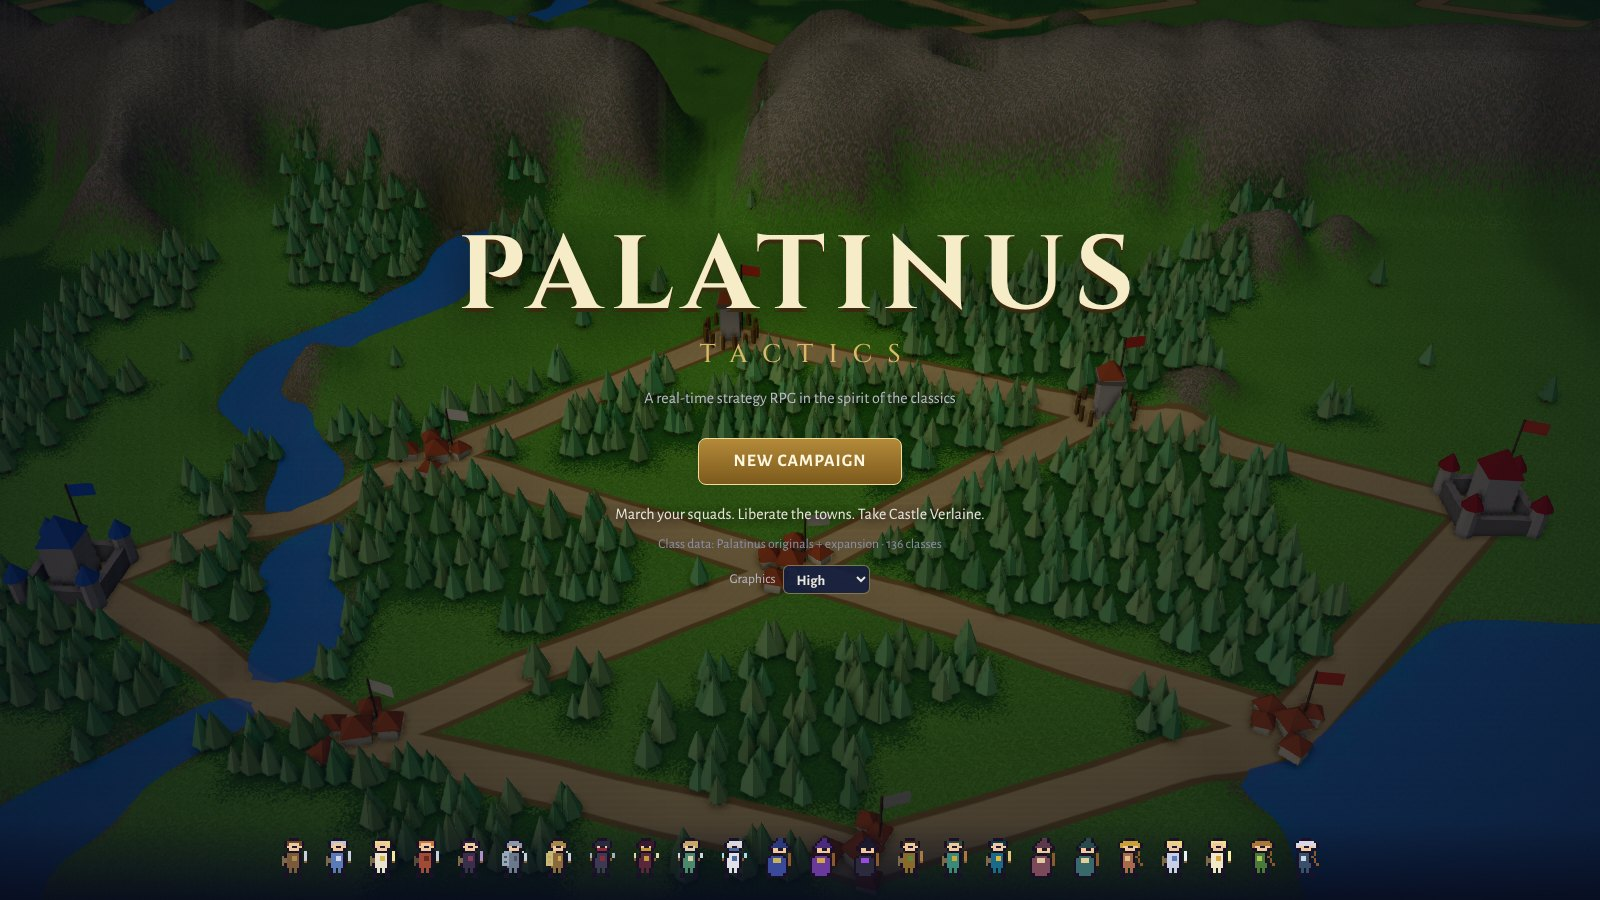
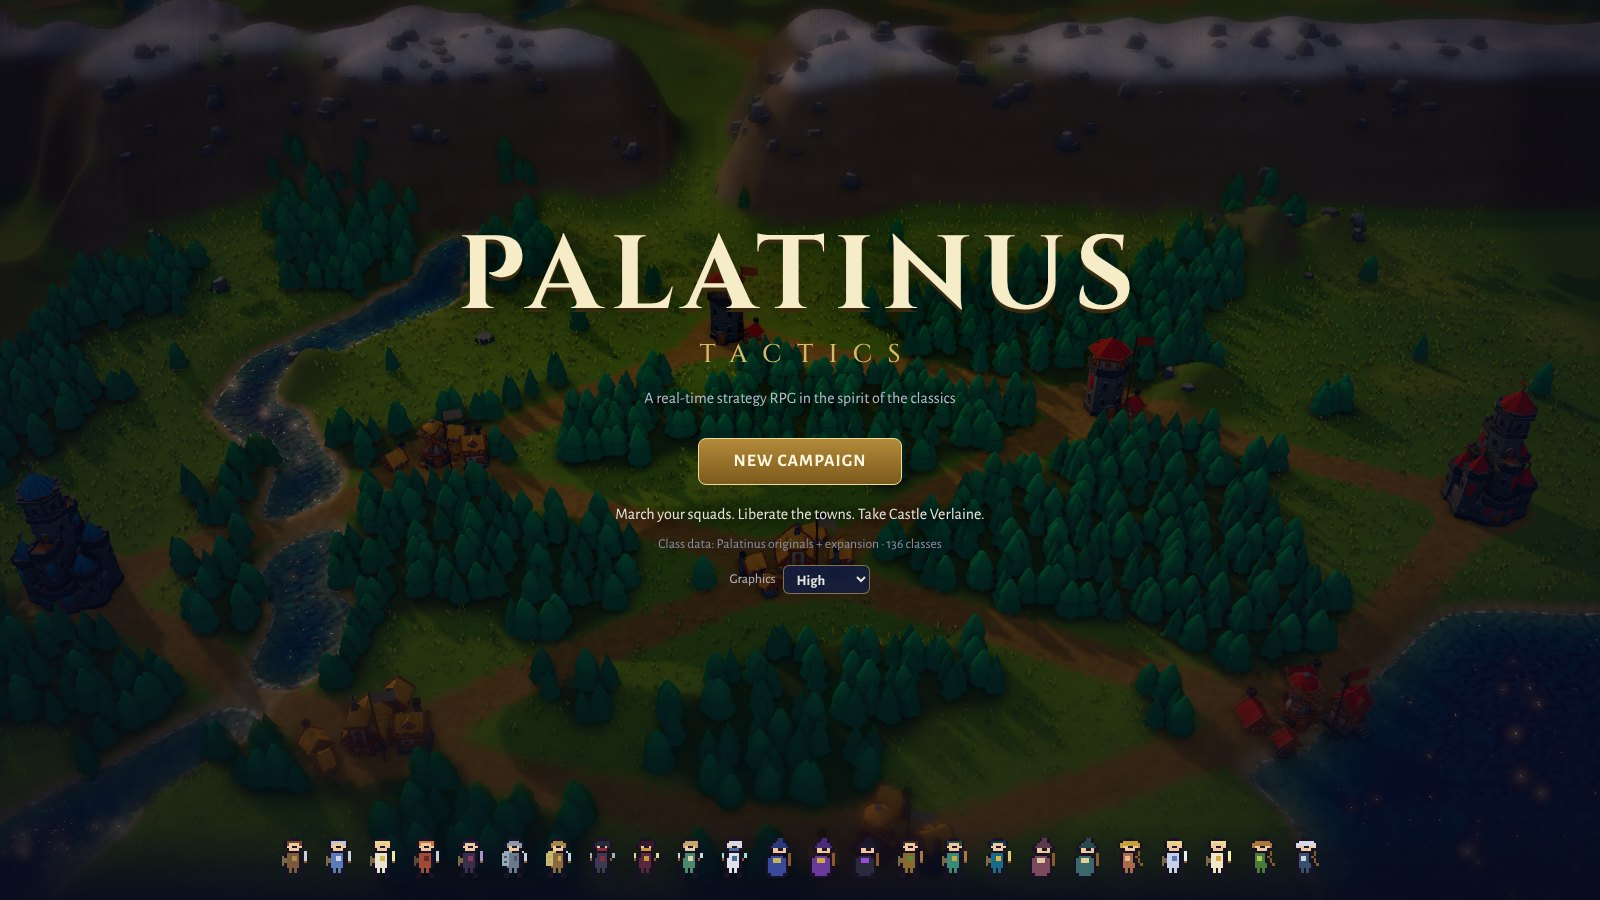
Smoother water; phase 2 screenshots in the README
The waves' slope is measured across several of the noise's texels, so the
surface no longer breaks into flat facets close up, and the water is a
touch rougher so the sun's glints shimmer rather than glare.

Claude-Session: https://claude.ai/code/session_0198SCbw7ddedgTtmxrn4ErH

diff --git a/src/gfx3d/landscape.ts b/src/gfx3d/landscape.ts
@@ -277,11 +277,12 @@ export function waterMaterial(field: Float32Array, simple = false): THREE.Materi
     const s = noise.sample(p.mul(0.08).add(vec2(t.mul(0.012), t.mul(0.009))));
     surface = normalize(vec3(s.g.sub(0.5).mul(tilt).mul(3), 1, s.b.sub(0.5).mul(tilt).mul(3)));
   } else {
-    const e = 0.08;
+    // The slope across a span of several of the noise's texels, so it runs smoothly from texel to texel.
+    const e = 0.35;
     const h0 = wave(p);
     const hx = wave(p.add(vec2(e, 0)));
     const hz = wave(p.add(vec2(0, e)));
-    surface = normalize(vec3(h0.sub(hx).div(e).mul(tilt), 1, h0.sub(hz).div(e).mul(tilt)));
+    surface = normalize(vec3(h0.sub(hx).div(e).mul(tilt).mul(1.6), 1, h0.sub(hz).div(e).mul(tilt).mul(1.6)));
   }
 
   const shallow = color(0x3e9a9a);
@@ -298,11 +299,11 @@ export function waterMaterial(field: Float32Array, simple = false): THREE.Materi
     material.opacityNode = opacity;
     return material;
   }
-  const material = new MeshStandardNodeMaterial({ roughness: 0.12, metalness: 0, transparent: true });
+  const material = new MeshStandardNodeMaterial({ roughness: 0.2, metalness: 0, transparent: true });
   material.colorNode = mix(body, color(0xf2f6f4), froth);
   material.normalNode = transformNormalToView(surface);
   material.opacityNode = opacity;
-  material.roughnessNode = mix(float(0.1), float(0.6), froth);
+  material.roughnessNode = mix(float(0.2), float(0.6), froth);
   material.depthWrite = false;
   return material;
 }

diff --git a/README.md b/README.md
@@ -9,7 +9,9 @@ own art appears only when extracted locally from your own ROM (below).
 
 | | |
 |---|---|
-| ![The title screen over the campaign map](docs/screenshots/title.jpg) | ![The keep and its squads on the campaign map](docs/screenshots/map.jpg) |
+| ![The title screen over the campaign map at evening](docs/screenshots/title.jpg) | ![The whole campaign map on a clear morning](docs/screenshots/map.jpg) |
+| ![Fort Melchor and its squads at midday](docs/screenshots/keep.jpg) | ![Elm Vale at evening, the sun low on the river](docs/screenshots/evening.jpg) |
+| ![Midfield in the rain](docs/screenshots/rain.jpg) | ![Elm Vale under snow](docs/screenshots/snow.jpg) |
 | ![A squad's gear on the army screen](docs/screenshots/organize.jpg) | ![A battle between two squads](docs/screenshots/battle.jpg) |
 
 These show the built-in data at the High preset.
